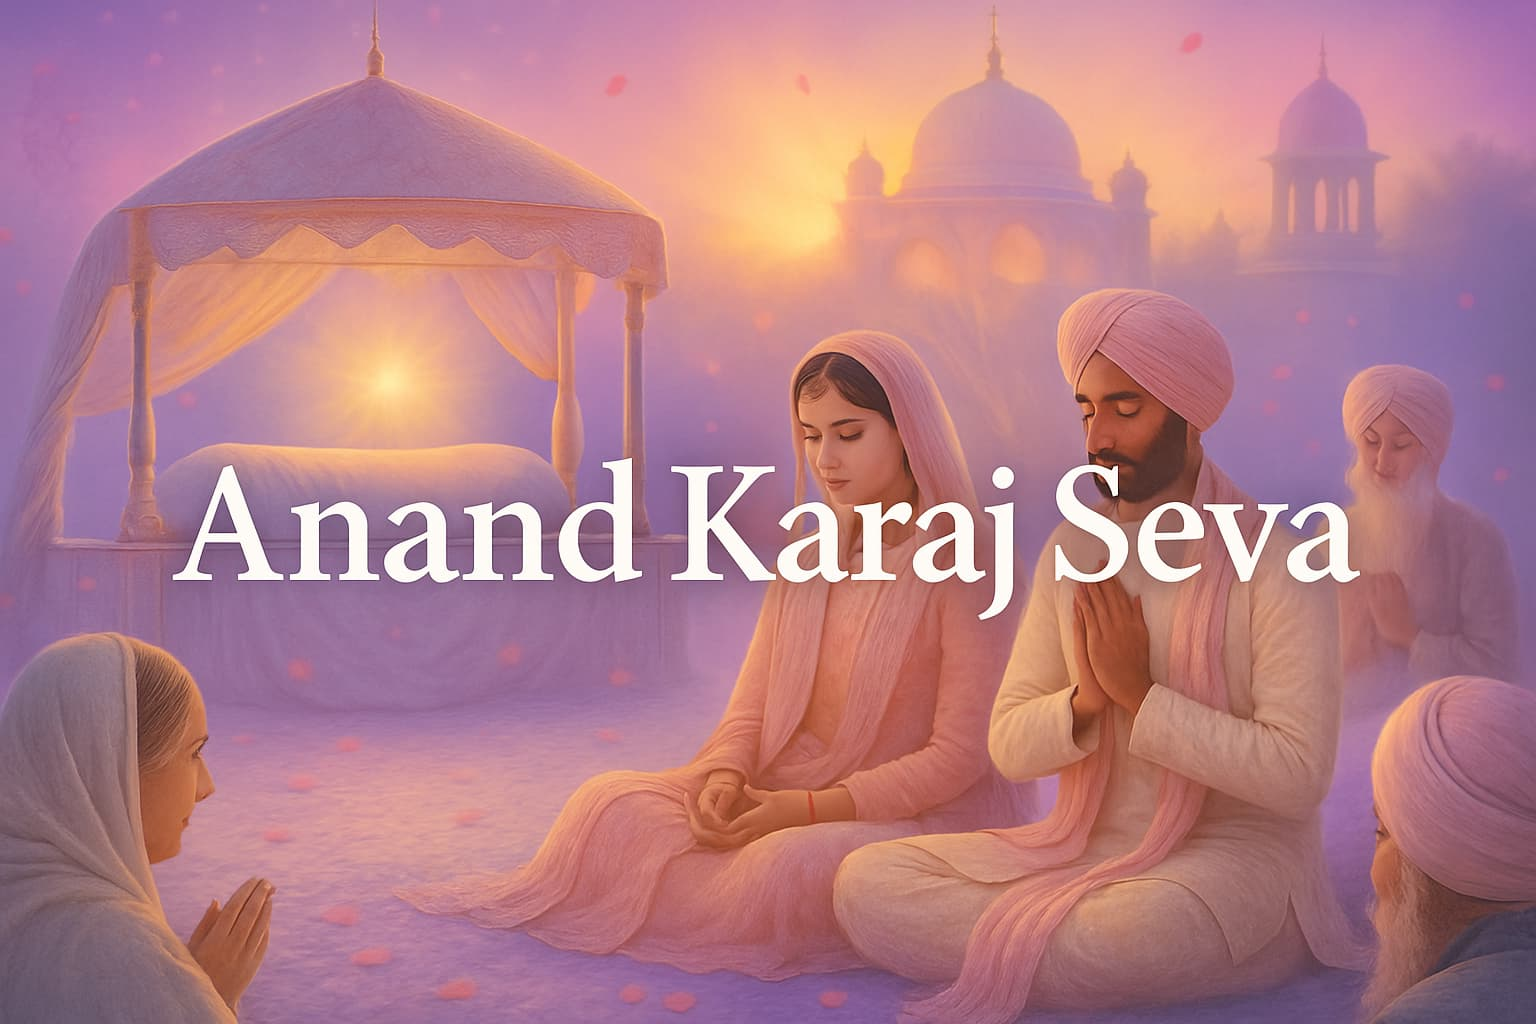
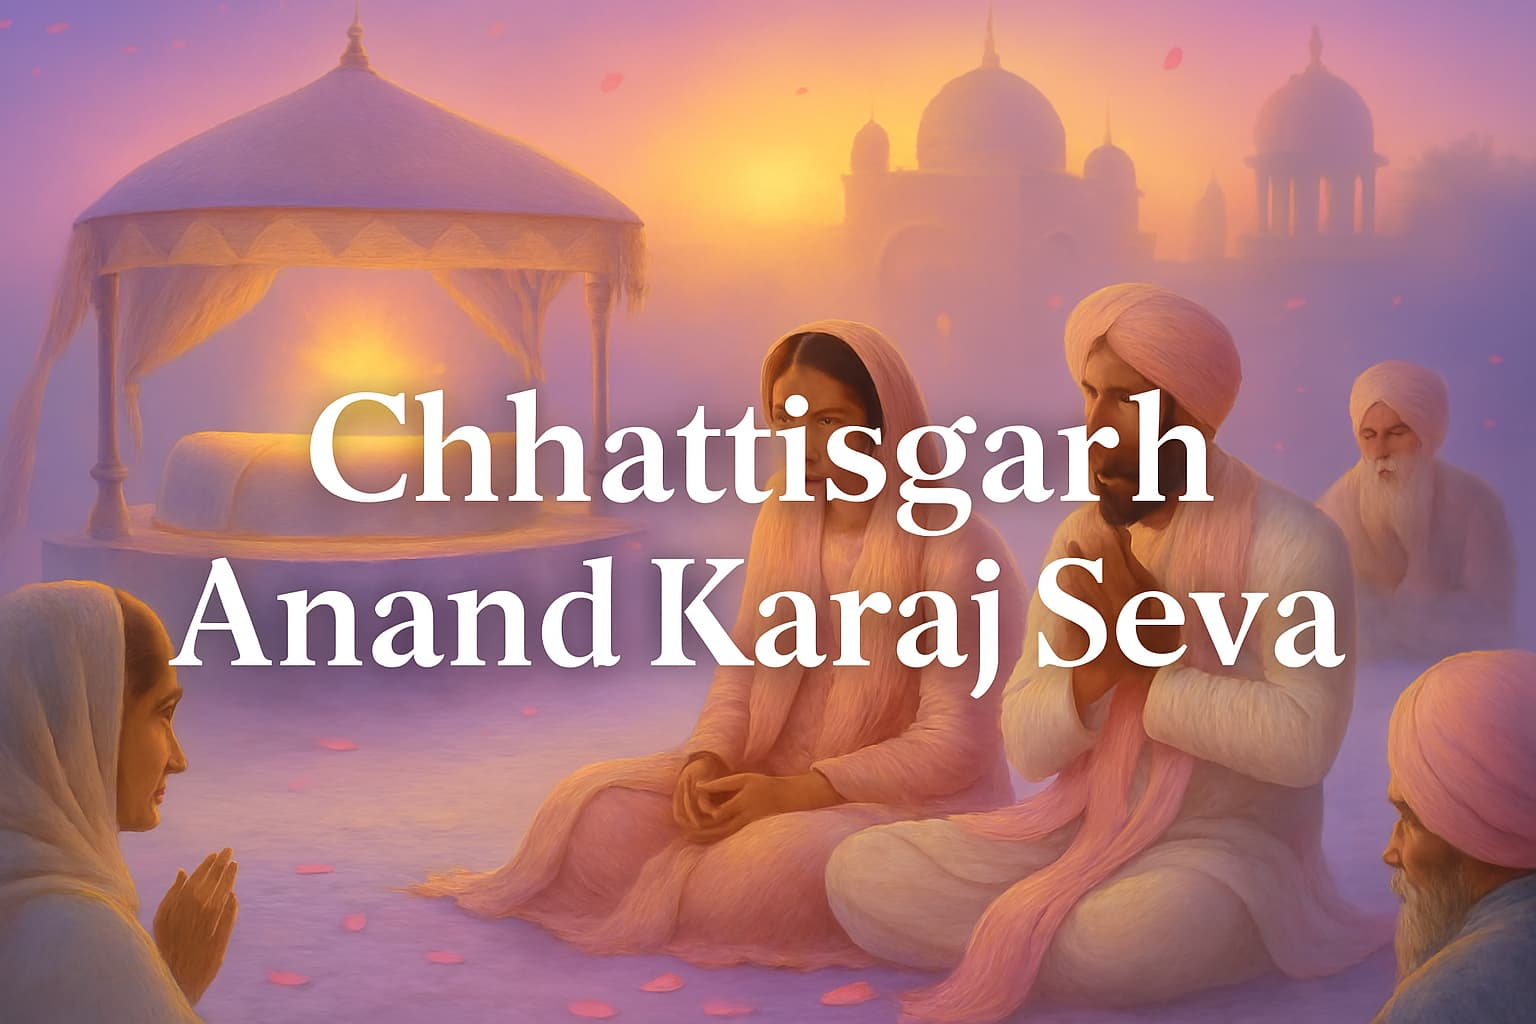
update

diff --git a/index.html b/index.html
@@ -43,7 +43,7 @@
     <section id="home" class="hero">
         <div class="container">
             <h1>Finding a Partner in Guru Sahib’s Light</h1>
-            <p>A seva-based platform connecting Gursikh souls for the sacred bond of Anand Karaj, in accordance with
+            <p>A seva-based platform connecting Gursikh souls for the sacred bond of Chhattisgarh Anand Karaj, in accordance with
                 Sikh Rehat Maryada.</p>
             <a href="#register" class="cta-button">Register Now</a>
         </div>
@@ -113,7 +113,7 @@
     <section id="register" class="contact">
         <div class="container">
             <h2>Create Your Profile</h2>
-            <p>Submit your details on our secure external form to connect with fellow seekers of Anand Karaj.</p>
+            <p>Submit your details on our secure external form to connect with fellow seekers of Chhattisgarh Anand Karaj.</p>
             <a href="#" target="_blank" class="cta-button">Go to Registration Form</a>
         </div>
     </section>

diff --git a/styles.css b/styles.css
@@ -173,14 +173,14 @@ body {
     background: #d85e7c;
 }
 
-/* Logo 2 Banner */
 .logo2-banner img {
     width: 100%;
     height: 100%;
     object-fit: cover;
-    margin-bottom: 40px;
+    margin-bottom: 10px; /* Reduced from 40px to 10px */
     border-bottom: 6px solid #fbd0d0;
 }
+
 
 /* About Section */
 .about {
